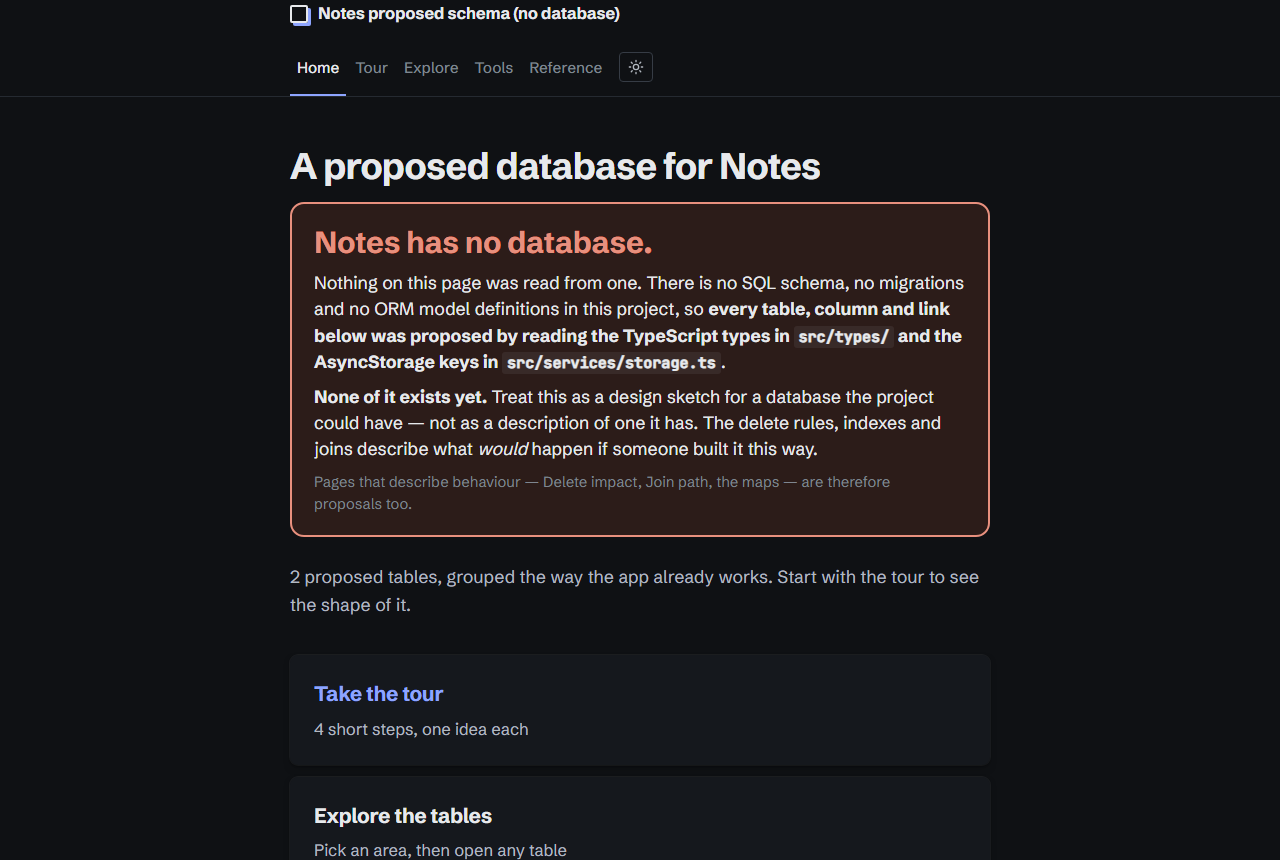
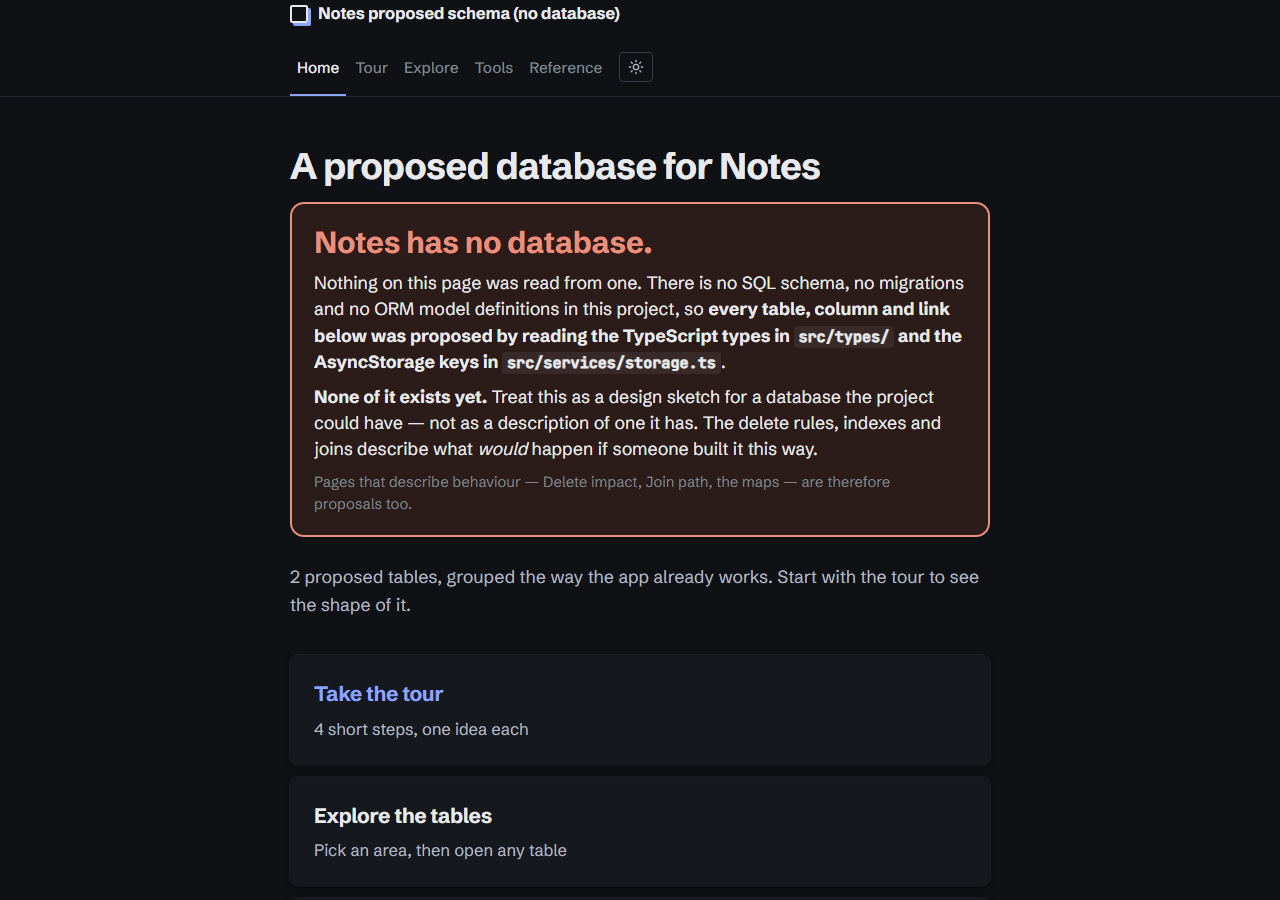
Enhance schema guide functionality by improving handling of inferred schemas. Update documentation to clarify the distinction between inferred and actual schemas, including user prompts and footer notes. Implement UI changes to indicate when a proposed schema is displayed. Add validation for schema 

diff --git a/examples/demo/schema-guide.html b/examples/demo/schema-guide.html
@@ -238,6 +238,15 @@ footer{max-width:760px;margin:0 auto;padding:0 20px 48px;color:var(--muted);font
 .rule.dangle{border-color:var(--dangle);background:var(--dangle-soft)}
 .unverified{display:flex;gap:10px;align-items:flex-start;margin:0 0 18px;padding:10px 13px;border:1px solid var(--dangle);border-radius:10px;background:var(--dangle-soft);font-size:14px;line-height:1.45}
 .unverified b{white-space:nowrap}
+.noschema{margin:0 0 26px;padding:20px 22px;border:2px solid var(--cascade);border-radius:14px;background:var(--cascade-soft)}
+.noschema h2{margin:0 0 10px;font-size:clamp(1.35rem,3.6vw,1.9rem);line-height:1.2;letter-spacing:-.01em;color:var(--cascade)}
+.noschema p{margin:0 0 8px;font-size:clamp(1rem,2.2vw,1.1rem);line-height:1.5}
+.noschema p:last-child{margin-bottom:0}
+.noschema .what{font-size:.92rem;color:var(--muted)}
+.strip{display:block;margin:0 0 18px;padding:9px 14px;border-radius:9px;font-size:14px;line-height:1.4;border:1px solid var(--cascade);background:var(--cascade-soft)}
+.strip b{color:var(--cascade)}
+.strip.soft{border-color:var(--dangle);background:var(--dangle-soft)}
+.strip.soft b{color:var(--dangle)}
 .map .edge text{font-family:var(--mono);font-size:11px;fill:var(--muted);paint-order:stroke;stroke:var(--surface);stroke-width:4px;stroke-linejoin:round}
 .map .edge text.count{font-family:var(--font);font-size:12px;font-weight:600;fill:var(--ink-2)}
 .map.focusing .edge{opacity:.07}
@@ -656,6 +665,7 @@ details.own .tree{margin-top:2px}
 .val-row > a{font-size:.88rem;overflow-wrap:anywhere;text-decoration:none;color:var(--ink-2)}
 .val-row > a b{color:var(--ink);font-weight:600}
 .val-hint{margin:6px 0 0;font-size:.8rem;color:var(--muted)}
+.caveat{display:block;margin-top:7px;opacity:.85}
 @media (max-width:560px){
   .val-row{grid-template-columns:1fr}
   .hub{grid-template-columns:1fr auto}
@@ -725,8 +735,14 @@ const FACTS = DATA.facts || { tables: [] };
 const GUIDE = DATA.guide || {};
 const PROJECT = { name: 'This project', code: ['sql'], ...(GUIDE.project || {}) };
 const DIALECT = { mysql: 'mysql', mariadb: 'mysql', sqlite: 'sqlite' }[(FACTS.source || {}).dialect || (FACTS.source || {}).kind] || 'postgres';
-const BRAND = `${PROJECT.name} schema guide`;
-const HEADLINE = PROJECT.headline ? md(PROJECT.headline) : `The ${escHtml(PROJECT.name)} database, one step at a time`;
+const BRAND = (FACTS.source || {}).kind === 'inferred'
+  ? `${PROJECT.name} proposed schema (no database)`
+  : `${PROJECT.name} schema guide`;
+const HEADLINE = PROJECT.headline
+  ? md(PROJECT.headline)
+  : (FACTS.source || {}).kind === 'inferred'
+    ? `A proposed database for ${escHtml(PROJECT.name)}`
+    : `The ${escHtml(PROJECT.name)} database, one step at a time`;
 const HL = { label: 'new', short: 'added recently', note: 'Added recently.', tables: [], columns: [], indexes: [], ...(GUIDE.highlight || {}) };
 const LABELS = {
   refused: 'Can be refused',
@@ -1048,12 +1064,17 @@ function buildRefPages() {
   if (!foot) return;
   const src = FACTS.source || {};
   const when = src.readAt ? new Date(src.readAt).toLocaleDateString('en-GB', { day: 'numeric', month: 'short', year: 'numeric' }) : '';
-  const kind = { postgres: 'PostgreSQL', mysql: 'MySQL', sqlite: 'SQLite', files: 'schema files' }[src.kind] || 'database';
-  foot.innerHTML = PROJECT.footer
-    ? md(PROJECT.footer)
-    : src.kind === 'files'
-      ? `${PROJECT.source ? `Source of truth: ${md(PROJECT.source)}. ` : ''}Tables, columns and links were written by hand from the project's schema files${when ? ` on ${when}` : ''}, not read from a running database.`
-      : `${PROJECT.source ? `Source of truth: ${md(PROJECT.source)}. ` : ''}Tables, columns and links were read from the ${kind} database${when ? ` on ${when}` : ''}.`;
+  const kind = { postgres: 'PostgreSQL', mysql: 'MySQL', sqlite: 'SQLite', files: 'schema files', inferred: 'application code' }[src.kind] || 'database';
+  const written =
+    `<span class="caveat">The wording on these pages was written by Claude from this project's code, and can be wrong or out of date. Check anything you are about to depend on; corrections go in <code>.schema-guide/guide.json</code>.</span>`;
+  foot.innerHTML =
+    (src.kind === 'inferred'
+      ? `Proposed schema. This project has no database: the tables, columns and links above were inferred from ${md(src.inferredFrom || 'the application code')}${when ? ` on ${when}` : ''} and do not exist.${PROJECT.footer ? ` ${md(PROJECT.footer)}` : ''}`
+      : PROJECT.footer
+        ? md(PROJECT.footer)
+        : src.kind === 'files'
+          ? `${PROJECT.source ? `Source of truth: ${md(PROJECT.source)}. ` : ''}Tables, columns and links were written by hand from the project's schema files${when ? ` on ${when}` : ''}, not read from a running database.`
+          : `${PROJECT.source ? `Source of truth: ${md(PROJECT.source)}. ` : ''}Tables, columns and links were read from the ${kind} database${when ? ` on ${when}` : ''}.`) + written;
 })();
 
 const app = document.getElementById('app');
@@ -1142,7 +1163,11 @@ function viewHome() {
   return `<section>
     <h1>${HEADLINE}</h1>
     ${UNVERIFIED}
-    <p class="lede">${count(TABLES.length, 'table holds', 'tables hold')} everything the app stores. If this is new to you, start with the tour.</p>
+    <p class="lede">${
+      INFERRED
+        ? `${count(TABLES.length, 'proposed table', 'proposed tables')}, grouped the way the app already works. Start with the tour to see the shape of it.`
+        : `${count(TABLES.length, 'table holds', 'tables hold')} everything the app stores. If this is new to you, start with the tour.`
+    }</p>
     <div class="paths">
       <a class="path primary" href="#tour/1"><b>Take the tour</b><span>${TOUR.length} short steps, one idea each</span></a>
       <a class="path" href="#explore"><b>Explore the tables</b><span>Pick an area, then open any table</span></a>
@@ -1327,10 +1352,30 @@ const fold = (summary, inner, small = '') => `<details><summary>${summary}${smal
 
 const REF_PAGES = buildRefPages();
 
-/** Shown on Home when the schema was written by hand: the reader can't otherwise tell. */
-const UNVERIFIED =
-  (FACTS.source || {}).kind === 'files'
+/* How much the page is allowed to claim:
+   a live database > a schema written from real schema files > a shape inferred from application code. */
+const SOURCE_KIND = (FACTS.source || {}).kind;
+const INFERRED = SOURCE_KIND === 'inferred';
+const FROM_FILES = SOURCE_KIND === 'files';
+const INFERRED_FROM = (FACTS.source || {}).inferredFrom || 'the application code';
+
+/** Shown big on Home: the reader cannot otherwise tell where any of this came from. */
+const UNVERIFIED = INFERRED
+  ? `<div class="noschema" role="note">
+      <h2>${escHtml(PROJECT.name)} has no database.</h2>
+      <p>Nothing on this page was read from one. There is no SQL schema, no migrations and no ORM model definitions in this project, so <b>every table, column and link below was proposed by reading ${md(INFERRED_FROM)}</b>.</p>
+      <p><b>None of it exists yet.</b> Treat this as a design sketch for a database the project could have — not as a description of one it has. The delete rules, indexes and joins describe what <em>would</em> happen if someone built it this way.</p>
+      <p class="what">Pages that describe behaviour — Delete impact, Join path, the maps — are therefore proposals too.</p>
+    </div>`
+  : FROM_FILES
     ? `<p class="unverified"><b>Written from schema files.</b> <span>This guide was built from the project's migrations and model definitions, not read from a running database. The live database may differ.</span></p>`
+    : '';
+
+/** Repeated on every other page, because people arrive by deep link, not through Home. */
+const STRIP = INFERRED
+  ? `<p class="strip"><b>Proposed schema.</b> ${escHtml(PROJECT.name)} has no database; these tables were inferred from ${md(INFERRED_FROM)} and do not exist. <a href="#home">What this means</a></p>`
+  : FROM_FILES
+    ? `<p class="strip soft"><b>Written from schema files</b>, not read from a running database. <a href="#home">What this means</a></p>`
     : '';
 
 function linkGroups(rule) {
@@ -2205,10 +2250,14 @@ function mapOwnership() {
   const grow = (root) => {
     const parent = new Map();
     const order = [root];
+    const elsewhere = [];
     placed.add(root);
     for (let i = 0; i < order.length; i++) {
       for (const c of ownedBy(order[i])) {
-        if (placed.has(c)) continue;
+        if (placed.has(c)) {
+          if (order[i] === root) elsewhere.push(c);
+          continue;
+        }
         placed.add(c);
         parent.set(c, order[i]);
         order.push(c);
@@ -2220,7 +2269,15 @@ function mapOwnership() {
       const k = kids(n);
       return `<li><span class="node-name">${tlink(n)}</span>${also.length ? `<span class="tag">also owned by ${also.join(', ')}</span>` : ''}${selfTag(n)}${k.length ? `<ul>${k.map(li).join('')}</ul>` : ''}</li>`;
     };
-    return { root, owns: order.length - 1, html: `<ul>${kids(root).map(li).join('')}</ul>` };
+    const body = kids(root).map(li).join('');
+    return {
+      root,
+      owns: order.length - 1,
+      elsewhere,
+      html: body
+        ? `<ul>${body}</ul>`
+        : `<ul>${elsewhere.map((c) => `<li class="also"><span class="node-name">${tlink(c)}</span><span class="tag">shown under another owner</span></li>`).join('')}</ul>`,
+    };
   };
   const trees = roots.map(grow);
   // Tables that own each other in a loop have no owner at the top: start a tree at one of them.
@@ -2240,7 +2297,11 @@ function mapOwnership() {
     <section class="tsec" style="--c:var(--cascade)"><h2>Owners and what they own</h2>
       ${trees
         .map(
-          (tr, i) => `<details class="own"${i < 3 ? ' open' : ''}><summary><span class="t">${tr.root}</span><small>owns ${count(tr.owns, 'table', 'tables')}${tr.loop ? ' · in a cascade loop' : ''}</small></summary>
+          (tr, i) => `<details class="own"${i < 3 ? ' open' : ''}><summary><span class="t">${tr.root}</span><small>${
+            tr.owns || !tr.elsewhere.length
+              ? `owns ${count(tr.owns, 'table', 'tables')}`
+              : `owns ${count(tr.elsewhere.length, 'table', 'tables')}, shown under another owner`
+          }${tr.loop ? ' · in a cascade loop' : ''}</small></summary>
             <div class="inner"><div class="tree">${tr.html}</div><p class="fine"><a href="#tools/impact/${tr.root}">See the full delete impact</a></p></div></details>`,
         )
         .join('')}
@@ -2826,7 +2887,7 @@ function route() {
     : view === 'diagram' ? viewDiagram(a, b)
     : view === 'tools' ? viewTools()
     : viewNotFound();
-  app.innerHTML = html;
+  app.innerHTML = (view === 'home' ? '' : STRIP) + html;
 
   const section = { home: 'home', tour: 'tour', explore: 'explore', table: 'explore', ref: 'ref', diagram: 'tools', tools: 'tools' }[view];
   document.querySelectorAll('[data-nav]').forEach((link) => {

diff --git a/plugins/schema-guide/template/guide.html b/plugins/schema-guide/template/guide.html
@@ -665,6 +665,7 @@ details.own .tree{margin-top:2px}
 .val-row > a{font-size:.88rem;overflow-wrap:anywhere;text-decoration:none;color:var(--ink-2)}
 .val-row > a b{color:var(--ink);font-weight:600}
 .val-hint{margin:6px 0 0;font-size:.8rem;color:var(--muted)}
+.caveat{display:block;margin-top:7px;opacity:.85}
 @media (max-width:560px){
   .val-row{grid-template-columns:1fr}
   .hub{grid-template-columns:1fr auto}
@@ -734,7 +735,9 @@ const FACTS = DATA.facts || { tables: [] };
 const GUIDE = DATA.guide || {};
 const PROJECT = { name: 'This project', code: ['sql'], ...(GUIDE.project || {}) };
 const DIALECT = { mysql: 'mysql', mariadb: 'mysql', sqlite: 'sqlite' }[(FACTS.source || {}).dialect || (FACTS.source || {}).kind] || 'postgres';
-const BRAND = `${PROJECT.name} schema guide`;
+const BRAND = (FACTS.source || {}).kind === 'inferred'
+  ? `${PROJECT.name} proposed schema (no database)`
+  : `${PROJECT.name} schema guide`;
 const HEADLINE = PROJECT.headline
   ? md(PROJECT.headline)
   : (FACTS.source || {}).kind === 'inferred'
@@ -1062,14 +1065,16 @@ function buildRefPages() {
   const src = FACTS.source || {};
   const when = src.readAt ? new Date(src.readAt).toLocaleDateString('en-GB', { day: 'numeric', month: 'short', year: 'numeric' }) : '';
   const kind = { postgres: 'PostgreSQL', mysql: 'MySQL', sqlite: 'SQLite', files: 'schema files', inferred: 'application code' }[src.kind] || 'database';
+  const written =
+    `<span class="caveat">The wording on these pages was written by Claude from this project's code, and can be wrong or out of date. Check anything you are about to depend on; corrections go in <code>.schema-guide/guide.json</code>.</span>`;
   foot.innerHTML =
-    src.kind === 'inferred'
+    (src.kind === 'inferred'
       ? `Proposed schema. This project has no database: the tables, columns and links above were inferred from ${md(src.inferredFrom || 'the application code')}${when ? ` on ${when}` : ''} and do not exist.${PROJECT.footer ? ` ${md(PROJECT.footer)}` : ''}`
       : PROJECT.footer
         ? md(PROJECT.footer)
         : src.kind === 'files'
           ? `${PROJECT.source ? `Source of truth: ${md(PROJECT.source)}. ` : ''}Tables, columns and links were written by hand from the project's schema files${when ? ` on ${when}` : ''}, not read from a running database.`
-          : `${PROJECT.source ? `Source of truth: ${md(PROJECT.source)}. ` : ''}Tables, columns and links were read from the ${kind} database${when ? ` on ${when}` : ''}.`;
+          : `${PROJECT.source ? `Source of truth: ${md(PROJECT.source)}. ` : ''}Tables, columns and links were read from the ${kind} database${when ? ` on ${when}` : ''}.`) + written;
 })();
 
 const app = document.getElementById('app');

diff --git a/plugins/schema-guide/skills/build/SKILL.md b/plugins/schema-guide/skills/build/SKILL.md
@@ -31,6 +31,8 @@ Before reading anything, work out which of three cases you are in. Search the re
 | No reachable database, but real schema sources that declare tables and columns | **B — write it from those files** | `files` |
 | No schema anywhere: the project persists to key-value storage, documents, bundled JSON, or nothing at all | **C — ask first** | `inferred` |
 
+The B/C line is the one that matters, and it is easy to get wrong. A schema source **declares tables and columns to a database**: `CREATE TABLE`, a migration, `schema.prisma`, `@Entity`, a Drizzle/TypeORM/Sequelize table definition. TypeScript interfaces, API response types, Zod schemas, AsyncStorage keys, Redis keys and bundled JSON are **not** schema sources, however entity-shaped they look — an `interface Story { id: string; ayahId: string }` is case C, not case B. If nothing in the project would create a table when it ran, you are in case C.
+
 **Case C is not a failure, and it is not business as usual.** Stop and tell the user plainly:
 
 > This project has no database. I found no SQL schema, no migrations and no ORM model definitions — \<name what you did find, e.g. "ten AsyncStorage keys in `src/services/storage.ts` and three bundled JSON files"\>.
@@ -71,11 +73,11 @@ Read `${CLAUDE_PLUGIN_ROOT}/reference/guide-format.md` first. Then read the code
 - `tour`: 8–15 steps, one idea each.
 - `reference`: the built-ins, plus topics the repo really documents (conventions, status flows, retention, migrations, known gaps).
 
-Ground every sentence in something you read. When unsure, leave it out rather than guess.
+Ground every sentence in something you read. When unsure, leave it out rather than guess — a missing note costs a reader nothing, a confident wrong one costs them an afternoon.
 
 ## 5. Build and check
 
-Run `CLI build`, then `CLI check --browser`. Fix every error (usually a misspelt name in guide.json) and rerun until it passes; fix warnings that point at missing text. Without Chrome or Edge, `CLI check` alone is enough.
+Run `CLI build`, then `CLI check --browser`, passing the same `--out` to both if you changed it. Fix every error (usually a misspelt name in guide.json) and rerun until it passes; fix warnings that point at missing text. Without Chrome or Edge, `CLI check` alone is enough. On a case C build, `check` always warns that the schema does not exist — that warning is correct, and stays.
 
 ## 6. Report
 

diff --git a/plugins/schema-guide/reference/facts-format.md b/plugins/schema-guide/reference/facts-format.md
@@ -55,7 +55,7 @@ Rules:
   | `inferred` | **No schema exists.** The shape was proposed by reading application code | A large notice on Home, a strip on every other page, and "(no database)" in the page title |
 
   With `files` or `inferred`, set `dialect` (`postgres`, `mysql` or `sqlite`) for SQL quoting.
-- `source.inferredFrom`: required with `kind: "inferred"`. Mini-markdown naming exactly what was read, shown on the page — e.g. ``"the TypeScript types in `src/types/` and the AsyncStorage keys in `src/services/storage.ts`"``.
+- `source.inferredFrom`: required with `kind: "inferred"`. Mini-markdown naming exactly what was read, shown on the page — e.g. ``"the TypeScript types in `src/types/` and the AsyncStorage keys in `src/services/storage.ts`"``. Write it as a **noun phrase**, with no full stop and no second sentence: the page reads it inside a sentence ("…inferred from X and do not exist").
 - Types as written in the schema, short forms (`timestamptz`, `varchar(80)`, `text[]`).
 - `notNull`: true for NOT NULL and primary-key columns; leave it out otherwise.
 - `onDelete`: `cascade` | `setnull` | `setdefault` | `restrict`. No action, missing, and `RESTRICT` are all `restrict`.

diff --git a/CHANGELOG.md b/CHANGELOG.md
@@ -30,3 +30,6 @@ Three real codebases were used to find out where the plugin lies; [`docs/evaluat
 - Maps and tabs no longer describe links, indexes or rankings that aren't there.
 - An area whose id collides with a fixed map view (`all`, `layers`, `ownership`, `hubs`, `values`, `table`) no longer breaks its own map page.
 - On the Ownership map, a table whose every owned table is already shown under an earlier owner used to read "owns 0 tables" above an empty list. It now names them and says where they are.
+- Every page's footer separates what was read from what was written: the structure is introspected and `check` refuses prose that names anything absent from it, but the explanations are Claude's reading of the code and can be wrong. The footer says so and names the file to correct.
+- A hand-written `facts.json` that leaves out `primaryKey`, `foreignKeys`, `indexes` or `checks` now builds, instead of writing the page and then failing with "Cannot read properties of undefined". A table with no columns is refused before anything is written.
+- The "(no database)" marker survives navigation: the engine rewrites the tab title on every route, and used to drop it after the first paint.

diff --git a/README.md b/README.md
@@ -60,6 +60,8 @@ Plus **Explore** (every area and table, with columns, links, indexes and rules i
 
 Three files land in your project: `docs/schema-guide.html` (the page), `.schema-guide/facts.json` (the schema) and `.schema-guide/guide.json` (the words — yours to edit). Commit all three.
 
+**One thing to be clear about.** The structure is read, not guessed: tables, columns, keys, delete rules and indexes come from introspecting your database, and `check` fails the build if the prose names anything that isn't there. The *explanations* around that structure — what a table is for, what a column means, which tables belong together — are Claude's reading of your code, and Claude can misread code. Treat the guide as a well-informed colleague's write-up rather than a specification: worth trusting to learn from, worth verifying before you depend on it. Every page says so in its footer, and corrections go in `guide.json`, where the next `update` will leave them alone.
+
 ## How it works
 
 The schema and the prose are kept apart, which is what makes updates safe:

diff --git a/plugins/schema-guide/README.md b/plugins/schema-guide/README.md
@@ -47,6 +47,8 @@ The result is three files in your project:
 
 Commit all three. Add `.schema-guide/facts.prev.json` to `.gitignore`.
 
+**What is read and what is written.** The schema is introspected, and `check` refuses to build a page whose prose names a table, column or index that doesn't exist. The explanations around it are Claude's reading of your code and can be wrong or go stale. Every page's footer says this; corrections belong in `guide.json`, which `update` preserves word for word.
+
 Both commands are user-invoked only, so nothing about this plugin enters Claude's context until you run one.
 
 ## Requirements

diff --git a/plugins/schema-guide/skills/update/SKILL.md b/plugins/schema-guide/skills/update/SKILL.md
@@ -51,4 +51,4 @@ Run `CLI build`, then `CLI check --browser`. Fix every error and rerun until it 
 
 ## 5. Report
 
-Give the user the change list, which guide entries you added, changed or removed, and any warnings left.
+Give the user the change list, which guide entries you added, changed or removed, and any warnings left. Point out anything you were unsure about, so they can check it rather than discover it later.
